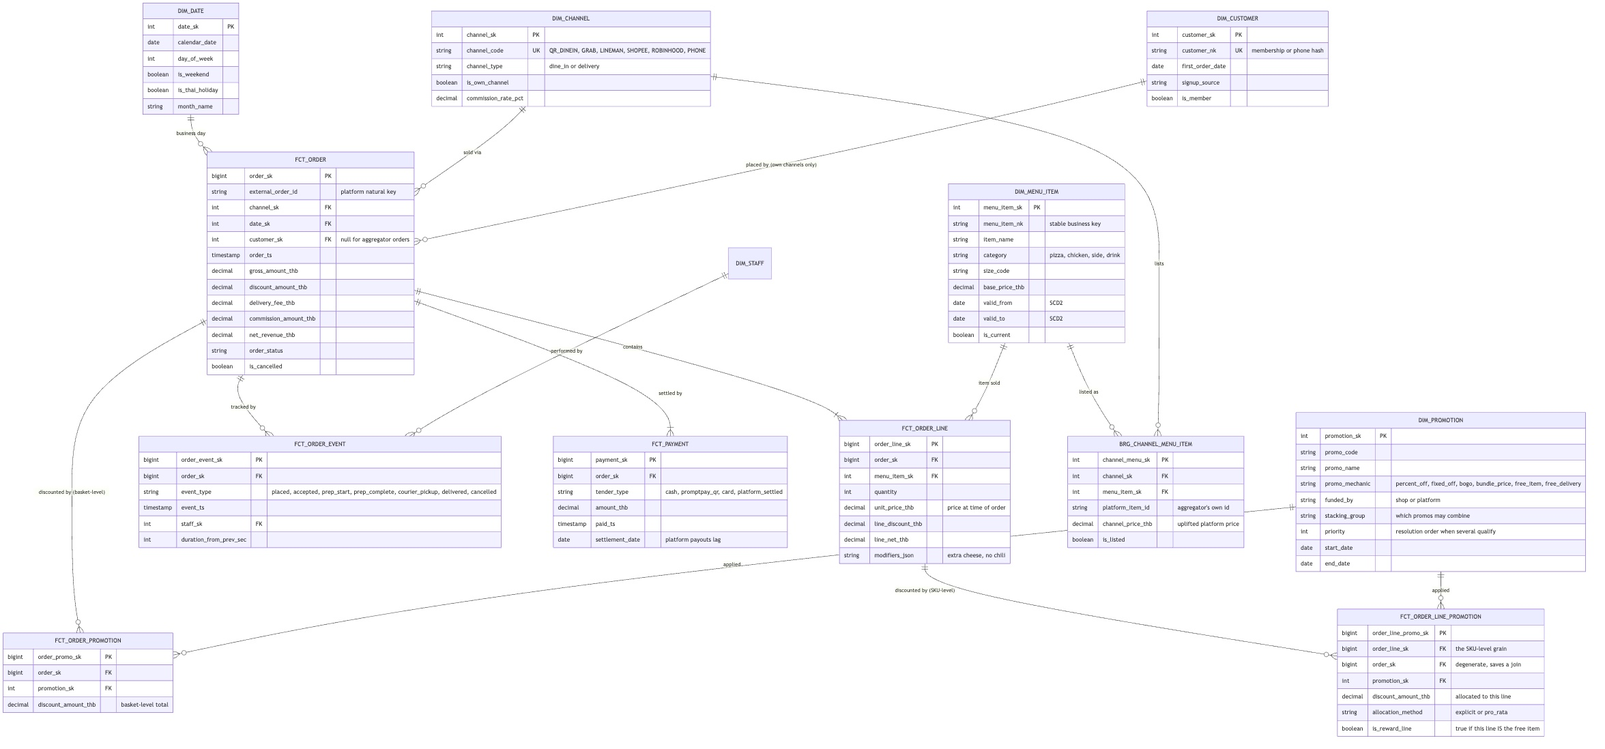
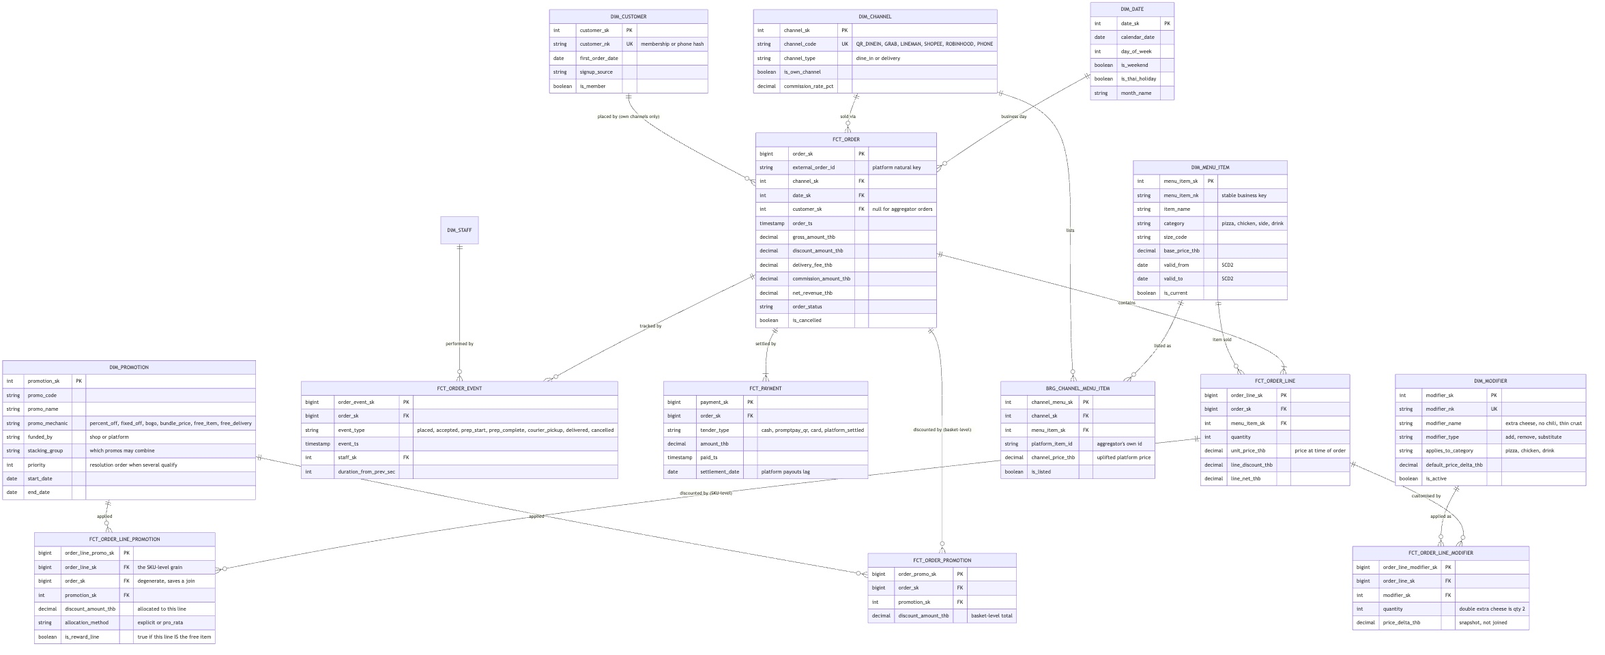
Apply teacher feedback: modifiers, delivery days, source key
modifiers_json -> FCT_ORDER_LINE_MODIFIER (Fig. 2, Fig. 3)
The 1NF violation was the visible problem; the inventory bug was the
real one. Theoretical usage explodes FCT_ORDER_LINE via BRG_RECIPE,
which only knows the base menu item, so "extra cheese" was consumed
physically and never counted as usage - it landed in variance as
unexplained shrinkage, corrupting the KPI the model exists to produce.
Added DIM_MODIFIER, FCT_ORDER_LINE_MODIFIER (order line x modifier,
price snapshotted) and BRG_MODIFIER_RECIPE with a signed
qty_delta_per_unit so removals net out too. Usage is now the sum of two
explosions.

delivery_days -> BRG_SUPPLIER_DELIVERY_DAY (Fig. 3)
"Mon,Thu" in a string cannot answer "next delivery date after today"
without parsing text in SQL, and the reorder loop depends on it. One
row per supplier per weekday, plus order_cutoff_time, which moves the
recommended order date by a full day.

source_ref_sk -> four explicit nullable FKs (Fig. 3)
This was a polymorphic FK: no declarable constraint, and overlapping key
spaces mean a wrong-table join returns wrong rows instead of failing.
Now order_line_sk / order_line_modifier_sk / po_line_sk / count_sk with
a CHECK that at most one is set and agrees with movement_type; waste,
spoilage and staff_meal legitimately have all four null.

Declined the "convert to String" half of that comment, with the
reasoning written up in section 6: a ref_table + ref_id pair gives up
[…]

diff --git a/docs/data-platform.html b/docs/data-platform.html
@@ -421,6 +421,8 @@ erDiagram
   DIM_MENU_ITEM ||--o{ FCT_ORDER_LINE : "item sold"
   DIM_MENU_ITEM ||--o{ BRG_CHANNEL_MENU_ITEM : "listed as"
   DIM_CHANNEL ||--o{ BRG_CHANNEL_MENU_ITEM : "lists"
+  FCT_ORDER_LINE ||--o{ FCT_ORDER_LINE_MODIFIER : "customised by"
+  DIM_MODIFIER ||--o{ FCT_ORDER_LINE_MODIFIER : "applied as"
   DIM_STAFF ||--o{ FCT_ORDER_EVENT : "performed by"
 
   DIM_DATE {
@@ -498,7 +500,22 @@ erDiagram
     decimal unit_price_thb "price at time of order"
     decimal line_discount_thb
     decimal line_net_thb
-    string modifiers_json "extra cheese, no chili"
+  }
+  DIM_MODIFIER {
+    int modifier_sk PK
+    string modifier_nk UK
+    string modifier_name "extra cheese, no chili, thin crust"
+    string modifier_type "add, remove, substitute"
+    string applies_to_category "pizza, chicken, drink"
+    decimal default_price_delta_thb
+    boolean is_active
+  }
+  FCT_ORDER_LINE_MODIFIER {
+    bigint order_line_modifier_sk PK
+    bigint order_line_sk FK
+    int modifier_sk FK
+    int quantity "double extra cheese is qty 2"
+    decimal price_delta_thb "snapshot, not joined"
   }
   FCT_ORDER_EVENT {
     bigint order_event_sk PK
@@ -535,6 +552,20 @@ erDiagram
   </div>
   <figcaption>Fig. 2 — Sales star. <code>BRG_CHANNEL_MENU_ITEM</code> is what lets a Grab listing and a QR listing of the same pizza roll up to one item.</figcaption>
 </figure>
+
+<h3>Modifiers are rows, not JSON</h3>
+
+<p><code>FCT_ORDER_LINE</code> used to carry <code>modifiers_json</code> — a string holding <code>"extra cheese, no chili"</code>. That is a repeating group hidden inside a column, so no query can total extra-cheese sales without string matching. But the expensive part is not reporting, it is <strong>inventory</strong>.</p>
+
+<p>Theoretical usage is derived as <code>FCT_ORDER_LINE × BRG_RECIPE</code>, and <code>BRG_RECIPE</code> explodes a <em>menu item</em>. Extra cheese is roughly 40 g of mozzarella that no recipe knows about — physically consumed, never counted as usage, and therefore landing in variance as unexplained shrinkage. A JSON blob quietly corrupts the exact number this model exists to produce.</p>
+
+<ul>
+  <li><code>DIM_MODIFIER</code> — the catalogue, with <code>modifier_type</code> (add / remove / substitute).</li>
+  <li><code>FCT_ORDER_LINE_MODIFIER</code> — grain: order line × modifier, with <code>price_delta_thb</code> snapshotted.</li>
+  <li><code>BRG_MODIFIER_RECIPE</code> (figure 3) — what a modifier consumes, <strong>signed</strong>: extra cheese +40 g, no chili −5 g.</li>
+</ul>
+
+<p>Theoretical usage becomes the sum of two explosions rather than one. Without the third table the first two are just tidier reporting; with it, the variance number is finally honest.</p>
 
 <h2><span class="num">05</span> ER model — promotion rules</h2>
 
@@ -627,8 +658,12 @@ erDiagram
   DIM_INGREDIENT ||--o{ FCT_PURCHASE_ORDER_LINE : "purchased"
   DIM_SUPPLIER ||--o{ FCT_PURCHASE_ORDER : supplies
   DIM_SUPPLIER ||--o{ DIM_INGREDIENT : "preferred source"
+  DIM_SUPPLIER ||--o{ BRG_SUPPLIER_DELIVERY_DAY : "delivers on"
+  DIM_MODIFIER ||--o{ BRG_MODIFIER_RECIPE : "consumes"
+  DIM_INGREDIENT ||--o{ BRG_MODIFIER_RECIPE : "used in"
   FCT_PURCHASE_ORDER ||--|{ FCT_PURCHASE_ORDER_LINE : contains
-  FCT_PURCHASE_ORDER_LINE ||--o{ FCT_INVENTORY_MOVEMENT : "goods receipt"
+  FCT_PURCHASE_ORDER_LINE ||--o{ FCT_INVENTORY_MOVEMENT : "receipt"
+  FCT_INVENTORY_COUNT ||--o{ FCT_INVENTORY_MOVEMENT : "count adjustment"
   DIM_DATE ||--o{ FCT_INVENTORY_MOVEMENT : "on day"
   DIM_DATE ||--o{ FCT_INVENTORY_COUNT : "on day"
 
@@ -658,7 +693,20 @@ erDiagram
     string contact_phone
     int lead_time_days
     int min_order_value_thb
-    string delivery_days "Mon,Thu"
+  }
+  BRG_SUPPLIER_DELIVERY_DAY {
+    int supplier_delivery_day_sk PK
+    int supplier_sk FK
+    int day_of_week "1=Mon .. 7=Sun, one row per day"
+    time order_cutoff_time "order after this and it ships next delivery day"
+  }
+  BRG_MODIFIER_RECIPE {
+    int modifier_recipe_sk PK
+    int modifier_sk FK
+    int ingredient_sk FK
+    decimal qty_delta_per_unit "signed - extra cheese +40g, no chili -5g"
+    date valid_from "SCD2"
+    date valid_to
   }
   FCT_PURCHASE_ORDER {
     bigint po_sk PK
@@ -682,8 +730,11 @@ erDiagram
     int date_sk FK
     timestamp movement_ts
     string movement_type "receipt, theoretical_usage, waste, spoilage, count_adjustment, staff_meal"
-    decimal qty_delta "signed, base_uom"
-    bigint source_ref_sk "order_line_sk or po_line_sk"
+    decimal qty_delta "signed, base_uom - CHECK sign matches movement_type"
+    bigint order_line_sk FK "set for theoretical_usage, else null"
+    bigint order_line_modifier_sk FK "set for modifier usage, else null"
+    bigint po_line_sk FK "set for receipt, else null"
+    bigint count_sk FK "set for count_adjustment, else null"
     decimal unit_cost_thb
   }
   FCT_INVENTORY_COUNT {
@@ -698,8 +749,25 @@ erDiagram
   }
 </pre>
   </div>
-  <figcaption>Fig. 3 — Inventory star. Theoretical usage flows in from <code>FCT_ORDER_LINE</code> via <code>BRG_RECIPE</code>; physical truth flows in from <code>FCT_INVENTORY_COUNT</code>; the gap between them is the number the manager gets paid to shrink.</figcaption>
+  <figcaption>Fig. 3 — Inventory star. Theoretical usage flows in from <code>FCT_ORDER_LINE</code> via <code>BRG_RECIPE</code> and from <code>FCT_ORDER_LINE_MODIFIER</code> via <code>BRG_MODIFIER_RECIPE</code>; physical truth flows in from <code>FCT_INVENTORY_COUNT</code>; the gap between them is the number the manager gets paid to shrink.</figcaption>
 </figure>
+
+<h3>Delivery days are a table, not a string</h3>
+
+<p><code>DIM_SUPPLIER.delivery_days</code> used to hold <code>"Mon,Thu"</code> — a list crammed into a scalar, and it breaks something specific. The reorder suggestion respects <code>lead_time_days</code> <strong>and</strong> <code>delivery_days</code>; you cannot compute "the next delivery date after today" from a comma-separated string without parsing text in SQL, and "which suppliers deliver on Tuesday" is not answerable at all.</p>
+
+<p><code>BRG_SUPPLIER_DELIVERY_DAY</code> is one row per supplier per weekday, carrying <code>order_cutoff_time</code> — "order by 16:00 or it ships the following delivery day" moves the recommended order date by a full day, and that date is the thing the manager acts on.</p>
+
+<h3>One reference column became four</h3>
+
+<p><code>FCT_INVENTORY_MOVEMENT.source_ref_sk</code> was a single <code>bigint</code> documented as "order_line_sk or po_line_sk". That is a <strong>polymorphic foreign key</strong>, and it is the most dangerous construct in the model: the database cannot declare a foreign key on it, so integrity is whatever the ETL remembers to do — and because the two key spaces overlap, joining a <code>po_line_sk</code> to <code>FCT_ORDER_LINE</code> does not raise an error, it returns the <strong>wrong rows</strong>, silently.</p>
+
+<p>It is now four explicit nullable foreign keys — <code>order_line_sk</code>, <code>order_line_modifier_sk</code>, <code>po_line_sk</code>, <code>count_sk</code> — with a CHECK that at most one is set and that it agrees with <code>movement_type</code>. Rows for <code>waste</code>, <code>spoilage</code> and <code>staff_meal</code> legitimately have all four null; those movements have no source document.</p>
+
+<div class="note">
+  <span class="label">The rejected alternative</span>
+  <p>A <code>ref_table</code> + <code>ref_id</code> pair of strings is more flexible and is the wrong trade here: it permanently gives up database-enforced referential integrity, which is the one thing the split was for. <code>qty_delta</code> stays a single signed <code>decimal</code> for the same reason it always was — stock on hand is <code>SUM(qty_delta)</code>, one expression with no term to forget — and the guard against a receipt booked as an outflow is a CHECK tying sign to <code>movement_type</code>, not a second column.</p>
+</div>
 
 <h2><span class="num">07</span> ER model — people and shifts</h2>
 
@@ -813,6 +881,18 @@ erDiagram
     <h4><span>06</span> Payment, promotion and commission are separate from the order</h4>
     <p>Split tenders (half PromptPay, half cash) need their own rows. Platform-funded vs shop-funded promotions land on completely different lines of the P&amp;L. And <code>commission_amount_thb</code> is what turns gross revenue into the only number that matters — <b>net revenue the shop actually banks</b>, which differs by up to 30% between channels.</p>
   </div>
+  <div class="decision">
+    <h4><span>07</span> A promotion's definition and its effect are different tables</h4>
+    <p>Conditions and rewards say what the promo <em>is</em>; <code>FCT_ORDER_LINE_PROMOTION</code> says what it <em>did</em>, at SKU grain. Storing conditions as rows rather than columns lets a new mechanic ship without a migration — and pushing the discount down to the line is what keeps <b>item margin from being fiction</b>.</p>
+  </div>
+  <div class="decision">
+    <h4><span>08</span> Overtime is measured, not averaged</h4>
+    <p><code>regular_hours</code> and <code>ot_hours</code> are separate on <code>FCT_SHIFT</code>, and the multiplier used is snapshotted alongside them. A blended labour rate would be simpler and would hide <b>the single most controllable cost line the manager has</b>.</p>
+  </div>
+  <div class="decision">
+    <h4><span>09</span> No list lives in a scalar, and no key is polymorphic</h4>
+    <p>Three fields broke this and all three were fixed: <code>modifiers_json</code>, <code>DIM_SUPPLIER.delivery_days</code>, and <code>FCT_INVENTORY_MOVEMENT.source_ref_sk</code>. The first two are 1NF violations that silently disable a join; the third is worse, because <b>an overloaded key returns wrong rows instead of failing</b>.</p>
+  </div>
 </div>
 
 <h2><span class="num">09</span> Marts, dashboard and ML</h2>
@@ -822,7 +902,7 @@ erDiagram
   <thead><tr><th>Mart</th><th>Grain</th><th>Built from</th><th>Serves</th></tr></thead>
   <tbody>
     <tr><td>mart_sales_daily</td><td>business date × channel × menu item</td><td>FCT_ORDER + FCT_ORDER_LINE + dims</td><td>Sales dashboard; training set for the demand forecast</td></tr>
-    <tr><td>mart_ingredient_usage_daily</td><td>business date × ingredient</td><td>FCT_ORDER_LINE × BRG_RECIPE, vs FCT_INVENTORY_COUNT</td><td>Waste %, variance alerts, reorder suggestions</td></tr>
+    <tr><td>mart_ingredient_usage_daily</td><td>business date × ingredient</td><td>FCT_ORDER_LINE × BRG_RECIPE + FCT_ORDER_LINE_MODIFIER × BRG_MODIFIER_RECIPE, vs FCT_INVENTORY_COUNT</td><td>Waste %, variance alerts, reorder suggestions</td></tr>
     <tr><td>mart_delivery_sla</td><td>order</td><td>FCT_ORDER_EVENT pivoted to durations</td><td>Prep-time and lead-time distributions by channel and hour</td></tr>
     <tr><td>mart_customer_rfm</td><td>customer (own channels)</td><td>FCT_ORDER where customer_sk not null</td><td>Segmentation, win-back campaigns via LINE</td></tr>
     <tr><td>mart_labor_vs_sales</td><td>business date × hour</td><td>FCT_SHIFT + FCT_ORDER</td><td>Labour cost %, OT cost and OT share, understaffed-hour detection</td></tr>
@@ -833,7 +913,7 @@ erDiagram
 
 <h3>The closed loop</h3>
 <p>The forecast is the piece that makes the whole warehouse pay for itself, and it only works because of the chain of grains chosen above:</p>
-<p><code>mart_sales_daily</code> → forecast units per <b>item × day × channel</b> → multiply through <code>BRG_RECIPE</code> → forecast <b>grams per ingredient</b> → subtract current on-hand from <code>FCT_INVENTORY_MOVEMENT</code>, add <code>safety_stock_qty</code>, respect supplier <code>lead_time_days</code> and <code>delivery_days</code> → <b>a purchase order the manager can approve with one tap.</b></p>
+<p><code>mart_sales_daily</code> → forecast units per <b>item × day × channel</b> → multiply through <code>BRG_RECIPE</code> → forecast <b>grams per ingredient</b> → subtract current on-hand from <code>FCT_INVENTORY_MOVEMENT</code>, add <code>safety_stock_qty</code>, respect supplier <code>lead_time_days</code> and <code>BRG_SUPPLIER_DELIVERY_DAY</code> (including <code>order_cutoff_time</code>) → <b>a purchase order the manager can approve with one tap.</b></p>
 <p>Forecasts are written back as <code>fct_forecast</code> (grain: item × day × channel × forecast run) so predicted-vs-actual error is itself a table you can chart. A model you cannot score is a model you cannot trust.</p>
 
 <h3>Dashboard, top screen</h3>
@@ -857,6 +937,9 @@ erDiagram
     <tr><td>Unmapped menu item</td><td>New platform-only bundle</td><td><code>BRG_CHANNEL_MENU_ITEM</code> miss routes to a quarantine table + alert; revenue is never dropped</td></tr>
     <tr><td>Cancelled / refunded orders</td><td>Inflated sales and phantom stock usage</td><td><code>is_cancelled</code> excluded from usage derivation; kept in the fact for cancel-rate analysis</td></tr>
     <tr><td>Recipe changed mid-period</td><td>Variance suddenly explodes</td><td><code>BRG_RECIPE</code> is SCD2; usage joins on the recipe valid at order time</td></tr>
+    <tr><td>Modifier with no recipe</td><td>Extra cheese vanishes into unexplained variance</td><td>Alert on any <code>DIM_MODIFIER</code> of type add/substitute with no <code>BRG_MODIFIER_RECIPE</code> row</td></tr>
+    <tr><td>Movement pointing at two sources</td><td>Wrong-table join returns plausible wrong rows</td><td>CHECK at most one of the four source FKs is non-null, and that it matches <code>movement_type</code></td></tr>
+    <tr><td>Supplier with no delivery day</td><td>Reorder date cannot be computed, PO never suggested</td><td>Reject a <code>DIM_SUPPLIER</code> with zero <code>BRG_SUPPLIER_DELIVERY_DAY</code> rows</td></tr>
     <tr><td>Discount allocated but not reconciled</td><td>Item margin quietly invented</td><td>Assert line-level discount sums to order-level per order; fail the batch, do not warn</td></tr>
     <tr><td>Promo with no qualifying condition</td><td>Discount applies to everything</td><td>Reject a <code>DIM_PROMOTION</code> with zero condition rows unless the mechanic is <code>free_delivery</code></td></tr>
     <tr><td>Overtime split across two shifts</td><td>Daily threshold missed, OT under-reported</td><td>Compute the regular/OT split at staff × business_date, then allocate to shifts</td></tr>

diff --git a/README.md b/README.md
@@ -142,6 +142,7 @@ Grain declarations:
 - `FCT_ORDER_LINE` — one row per menu item per order
 - `FCT_ORDER_EVENT` — one row per status transition per order
 - `FCT_PAYMENT` — one row per tender per order (split payments are normal)
+- `FCT_ORDER_LINE_MODIFIER` — one row per modifier per order line
 
 ```mermaid
 erDiagram
@@ -158,6 +159,8 @@ erDiagram
   DIM_MENU_ITEM ||--o{ FCT_ORDER_LINE : "item sold"
   DIM_MENU_ITEM ||--o{ BRG_CHANNEL_MENU_ITEM : "listed as"
   DIM_CHANNEL ||--o{ BRG_CHANNEL_MENU_ITEM : "lists"
+  FCT_ORDER_LINE ||--o{ FCT_ORDER_LINE_MODIFIER : "customised by"
+  DIM_MODIFIER ||--o{ FCT_ORDER_LINE_MODIFIER : "applied as"
   DIM_STAFF ||--o{ FCT_ORDER_EVENT : "performed by"
 
   DIM_DATE {
@@ -235,7 +238,22 @@ erDiagram
     decimal unit_price_thb "price at time of order"
     decimal line_discount_thb
     decimal line_net_thb
-    string modifiers_json "extra cheese, no chili"
+  }
+  DIM_MODIFIER {
+    int modifier_sk PK
+    string modifier_nk UK
+    string modifier_name "extra cheese, no chili, thin crust"
+    string modifier_type "add, remove, substitute"
+    string applies_to_category "pizza, chicken, drink"
+    decimal default_price_delta_thb
+    boolean is_active
+  }
+  FCT_ORDER_LINE_MODIFIER {
+    bigint order_line_modifier_sk PK
+    bigint order_line_sk FK
+    int modifier_sk FK
+    int quantity "double extra cheese is qty 2"
+    decimal price_delta_thb "snapshot, not joined"
   }
   FCT_ORDER_EVENT {
     bigint order_event_sk PK
@@ -272,6 +290,28 @@ erDiagram
 
 `BRG_CHANNEL_MENU_ITEM` is what lets a Grab listing and a QR listing of the same pizza roll up to
 one item.
+
+### Modifiers are rows, not JSON
+
+`FCT_ORDER_LINE` used to carry `modifiers_json` — a string holding `"extra cheese, no chili"`. That
+is a repeating group hidden inside a column, so no query can total extra-cheese sales without
+string matching. But the expensive part is not reporting, it is **inventory**.
+
+Theoretical usage is derived as `FCT_ORDER_LINE × BRG_RECIPE`, and `BRG_RECIPE` explodes a *menu
+item*. Extra cheese is roughly 40 g of mozzarella that no recipe knows about — physically consumed,
+never counted as usage, and therefore landing in variance as unexplained shrinkage. A JSON blob
+quietly corrupts the exact number this whole model exists to produce (section 1: "the 10% is the
+variance you measure").
+
+So modifiers get the same treatment as anything else that moves stock:
+
+- `DIM_MODIFIER` — the catalogue, with `modifier_type` (add / remove / substitute)
+- `FCT_ORDER_LINE_MODIFIER` — grain: order line × modifier, with `price_delta_thb` snapshotted
+- `BRG_MODIFIER_RECIPE` (figure 3) — what a modifier consumes, **signed**: extra cheese `+40 g`,
+  no chili `−5 g`
+
+Theoretical usage becomes the sum of two explosions rather than one. Without the third table the
+first two are just tidier reporting; with it, the variance number is finally honest.
 
 ### Promotions: what it looked like, and what changed
 
@@ -397,8 +437,12 @@ erDiagram
   DIM_INGREDIENT ||--o{ FCT_PURCHASE_ORDER_LINE : "purchased"
   DIM_SUPPLIER ||--o{ FCT_PURCHASE_ORDER : supplies
   DIM_SUPPLIER ||--o{ DIM_INGREDIENT : "preferred source"
+  DIM_SUPPLIER ||--o{ BRG_SUPPLIER_DELIVERY_DAY : "delivers on"
+  DIM_MODIFIER ||--o{ BRG_MODIFIER_RECIPE : "consumes"
+  DIM_INGREDIENT ||--o{ BRG_MODIFIER_RECIPE : "used in"
   FCT_PURCHASE_ORDER ||--|{ FCT_PURCHASE_ORDER_LINE : contains
-  FCT_PURCHASE_ORDER_LINE ||--o{ FCT_INVENTORY_MOVEMENT : "goods receipt"
+  FCT_PURCHASE_ORDER_LINE ||--o{ FCT_INVENTORY_MOVEMENT : "receipt"
+  FCT_INVENTORY_COUNT ||--o{ FCT_INVENTORY_MOVEMENT : "count adjustment"
   DIM_DATE ||--o{ FCT_INVENTORY_MOVEMENT : "on day"
   DIM_DATE ||--o{ FCT_INVENTORY_COUNT : "on day"
 
@@ -428,7 +472,20 @@ erDiagram
     string contact_phone
     int lead_time_days
     int min_order_value_thb
-    string delivery_days "Mon,Thu"
+  }
+  BRG_SUPPLIER_DELIVERY_DAY {
+    int supplier_delivery_day_sk PK
+    int supplier_sk FK
+    int day_of_week "1=Mon .. 7=Sun, one row per day"
+    time order_cutoff_time "order after this and it ships next delivery day"
+  }
+  BRG_MODIFIER_RECIPE {
+    int modifier_recipe_sk PK
+    int modifier_sk FK
+    int ingredient_sk FK
+    decimal qty_delta_per_unit "signed - extra cheese +40g, no chili -5g"
+    date valid_from "SCD2"
+    date valid_to
   }
   FCT_PURCHASE_ORDER {
     bigint po_sk PK
@@ -452,8 +509,11 @@ erDiagram
     int date_sk FK
     timestamp movement_ts
     string movement_type "receipt, theoretical_usage, waste, spoilage, count_adjustment, staff_meal"
-    decimal qty_delta "signed, base_uom"
-    bigint source_ref_sk "order_line_sk or po_line_sk"
+    decimal qty_delta "signed, base_uom - CHECK sign matches movement_type"
+    bigint order_line_sk FK "set for theoretical_usage, else null"
+    bigint order_line_modifier_sk FK "set for modifier usage, else null"
+    bigint po_line_sk FK "set for receipt, else null"
+    bigint count_sk FK "set for count_adjustment, else null"
     decimal unit_cost_thb
   }
   FCT_INVENTORY_COUNT {
@@ -468,8 +528,43 @@ erDiagram
   }
 ```
 
-Theoretical usage flows in from `FCT_ORDER_LINE` via `BRG_RECIPE`; physical truth flows in from
+Theoretical usage flows in from `FCT_ORDER_LINE` via `BRG_RECIPE` **and** from
+`FCT_ORDER_LINE_MODIFIER` via `BRG_MODIFIER_RECIPE`; physical truth flows in from
 `FCT_INVENTORY_COUNT`; the gap between them is the number the manager gets paid to shrink.
+
+### Delivery days are a table, not a string
+
+`DIM_SUPPLIER.delivery_days` used to hold `"Mon,Thu"`. Same defect as `modifiers_json` — a list
+crammed into a scalar — and it breaks something specific. The closed loop in section 9 says the
+reorder suggestion respects `lead_time_days` **and** `delivery_days`; you cannot compute "the next
+delivery date after today" from a comma-separated string without parsing text in SQL, and "which
+suppliers deliver on Tuesday" is not answerable at all.
+
+`BRG_SUPPLIER_DELIVERY_DAY` is one row per supplier per weekday. It also carries
+`order_cutoff_time`, because "order by 16:00 or it ships the following delivery day" moves the
+recommended order date by a full day — and that date is the thing the manager acts on.
+
+### One reference column became four
+
+`FCT_INVENTORY_MOVEMENT.source_ref_sk` was a single `bigint` documented as "order_line_sk or
+po_line_sk". That is a **polymorphic foreign key**, and it is the most dangerous construct in the
+model:
+
+- the database cannot declare a foreign key on it, so integrity is whatever the ETL remembers to do;
+- the two key spaces overlap, so joining a `po_line_sk` to `FCT_ORDER_LINE` does not raise an
+  error — it returns the **wrong rows**, silently.
+
+It is now four explicit nullable foreign keys — `order_line_sk`, `order_line_modifier_sk`,
+`po_line_sk`, `count_sk` — with a CHECK that at most one is set and that it agrees with
+`movement_type`. Rows for `waste`, `spoilage` and `staff_meal` legitimately have all four null;
+those movements have no source document.
+
+The tempting alternative is a `ref_table` + `ref_id` pair of strings. It is more flexible, and it is
+the wrong trade here: it permanently gives up database-enforced referential integrity, which is the
+one thing the split was for. `qty_delta` stays a single signed `decimal` for the same reason it
+always was — stock on hand is `SUM(qty_delta)`, one expression with no term to forget — and the
+guard against a receipt booked as an outflow is a CHECK tying sign to `movement_type`, not a second
+column.
 
 ## 7 · ER model — people and shifts
 
@@ -601,12 +696,18 @@ See section 4.
 `FCT_SHIFT`, and the multiplier used is snapshotted alongside them. A blended labour rate would be
 simpler and would hide the single most controllable cost line the manager has.
 
+**09 · No list lives in a scalar, and no key is polymorphic.** Three fields broke this and all three
+were fixed: `modifiers_json`, `DIM_SUPPLIER.delivery_days`, and
+`FCT_INVENTORY_MOVEMENT.source_ref_sk`. The first two are 1NF violations that silently disable a
+join; the third is worse, because an overloaded key returns wrong rows instead of failing. Sections
+4 and 6 argue each one.
+
 ## 9 · Marts, dashboard and ML
 
 | Mart | Grain | Built from | Serves |
 |---|---|---|---|
 | `mart_sales_daily` | business date × channel × menu item | FCT_ORDER + FCT_ORDER_LINE + dims | Sales dashboard; training set for demand forecast |
-| `mart_ingredient_usage_daily` | business date × ingredient | FCT_ORDER_LINE × BRG_RECIPE, vs FCT_INVENTORY_COUNT | Waste %, variance alerts, reorder suggestions |
+| `mart_ingredient_usage_daily` | business date × ingredient | FCT_ORDER_LINE × BRG_RECIPE **+** FCT_ORDER_LINE_MODIFIER × BRG_MODIFIER_RECIPE, vs FCT_INVENTORY_COUNT | Waste %, variance alerts, reorder suggestions |
 | `mart_delivery_sla` | order | FCT_ORDER_EVENT pivoted to durations | Prep-time and lead-time distributions by channel and hour |
 | `mart_customer_rfm` | customer (own channels) | FCT_ORDER where customer_sk not null | Segmentation, win-back campaigns via LINE |
 | `mart_labor_vs_sales` | business date × hour | FCT_SHIFT + FCT_ORDER | Labour cost %, OT cost and OT share, understaffed-hour detection |
@@ -616,8 +717,8 @@ simpler and would hide the single most controllable cost line the manager has.
 
 `mart_sales_daily` → forecast units per **item × day × channel** → multiply through `BRG_RECIPE` →
 forecast **grams per ingredient** → subtract current on-hand from `FCT_INVENTORY_MOVEMENT`, add
-`safety_stock_qty`, respect supplier `lead_time_days` and `delivery_days` → **a purchase order the
-manager can approve with one tap.**
+`safety_stock_qty`, respect supplier `lead_time_days` and `BRG_SUPPLIER_DELIVERY_DAY` (including
+`order_cutoff_time`) → **a purchase order the manager can approve with one tap.**
 
 Forecasts are written back as `fct_forecast` (grain: item × day × channel × forecast run) so
 predicted-vs-actual error is itself a table you can chart. A model you cannot score is a model you
@@ -641,6 +742,9 @@ cannot trust.
 | Unmapped menu item | New platform-only bundle | `BRG_CHANNEL_MENU_ITEM` miss routes to a quarantine table + alert; revenue is never dropped |
 | Cancelled / refunded orders | Inflated sales and phantom stock usage | `is_cancelled` excluded from usage derivation; kept in the fact for cancel-rate analysis |
 | Recipe changed mid-period | Variance suddenly explodes | `BRG_RECIPE` is SCD2; usage joins on the recipe valid at order time |
+| Modifier with no recipe | Extra cheese vanishes into unexplained variance | Alert on any `DIM_MODIFIER` of type `add`/`substitute` with no `BRG_MODIFIER_RECIPE` row |
+| Movement pointing at two sources | Wrong-table join returns plausible wrong rows | CHECK at most one of the four source FKs is non-null, and that it matches `movement_type` |
+| Supplier with no delivery day | Reorder date cannot be computed, PO never suggested | Reject a `DIM_SUPPLIER` with zero `BRG_SUPPLIER_DELIVERY_DAY` rows |
 | Discount allocated but not reconciled | Item margin quietly invented | Assert `SUM(FCT_ORDER_LINE_PROMOTION.discount) = SUM(FCT_ORDER_PROMOTION.discount)` per order; fail the batch, don't warn |
 | Promo with no qualifying condition | Discount applies to everything | Reject a `DIM_PROMOTION` row with zero `BRG_PROMOTION_CONDITION` children unless the mechanic is `free_delivery` |
 | Overtime split across two shifts | Daily threshold missed, OT under-reported | Compute `regular_hours`/`ot_hours` at staff × business_date, then allocate to shifts |
